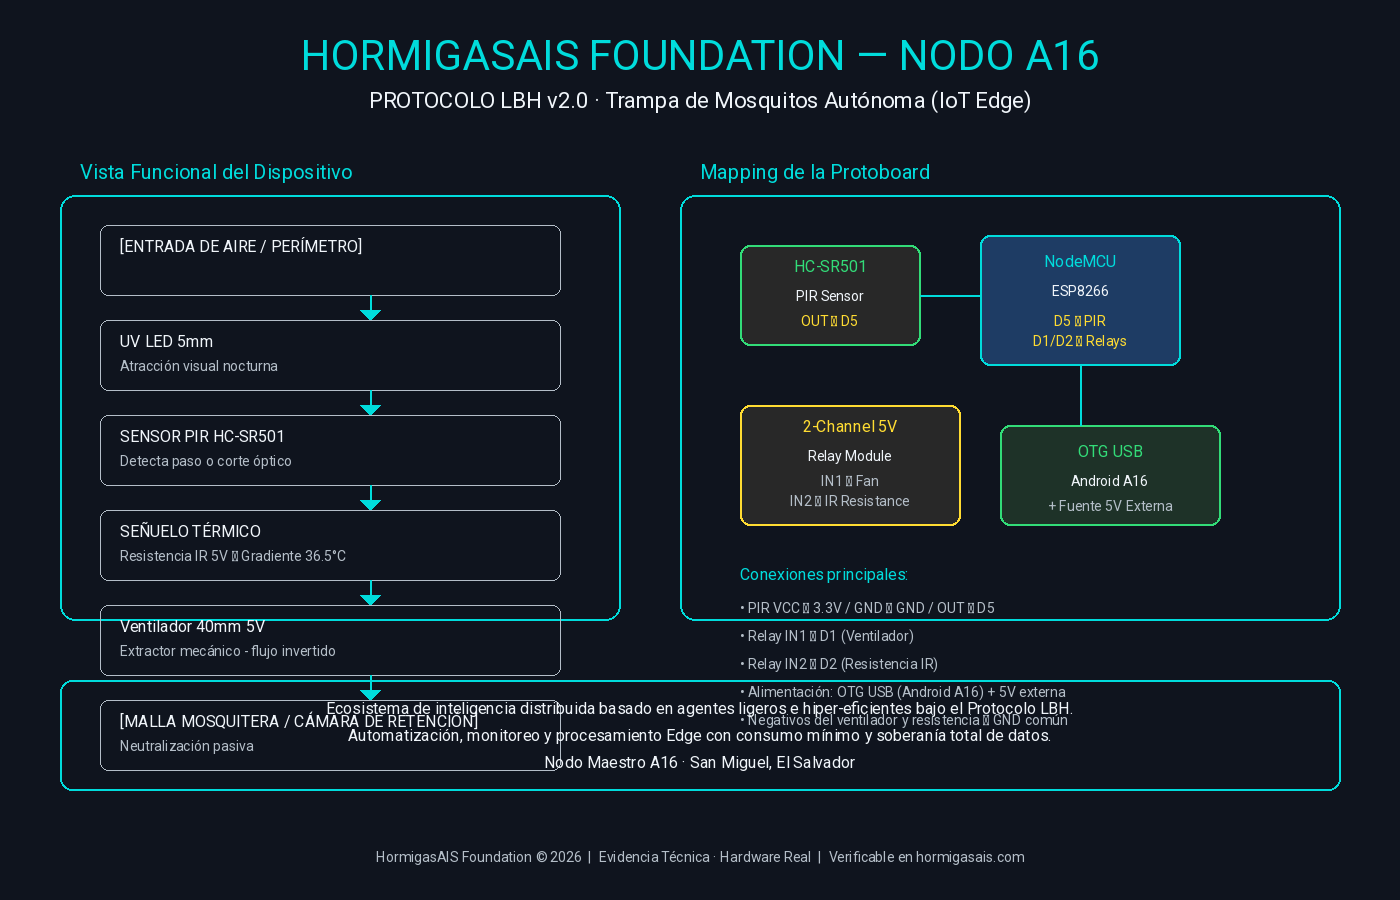
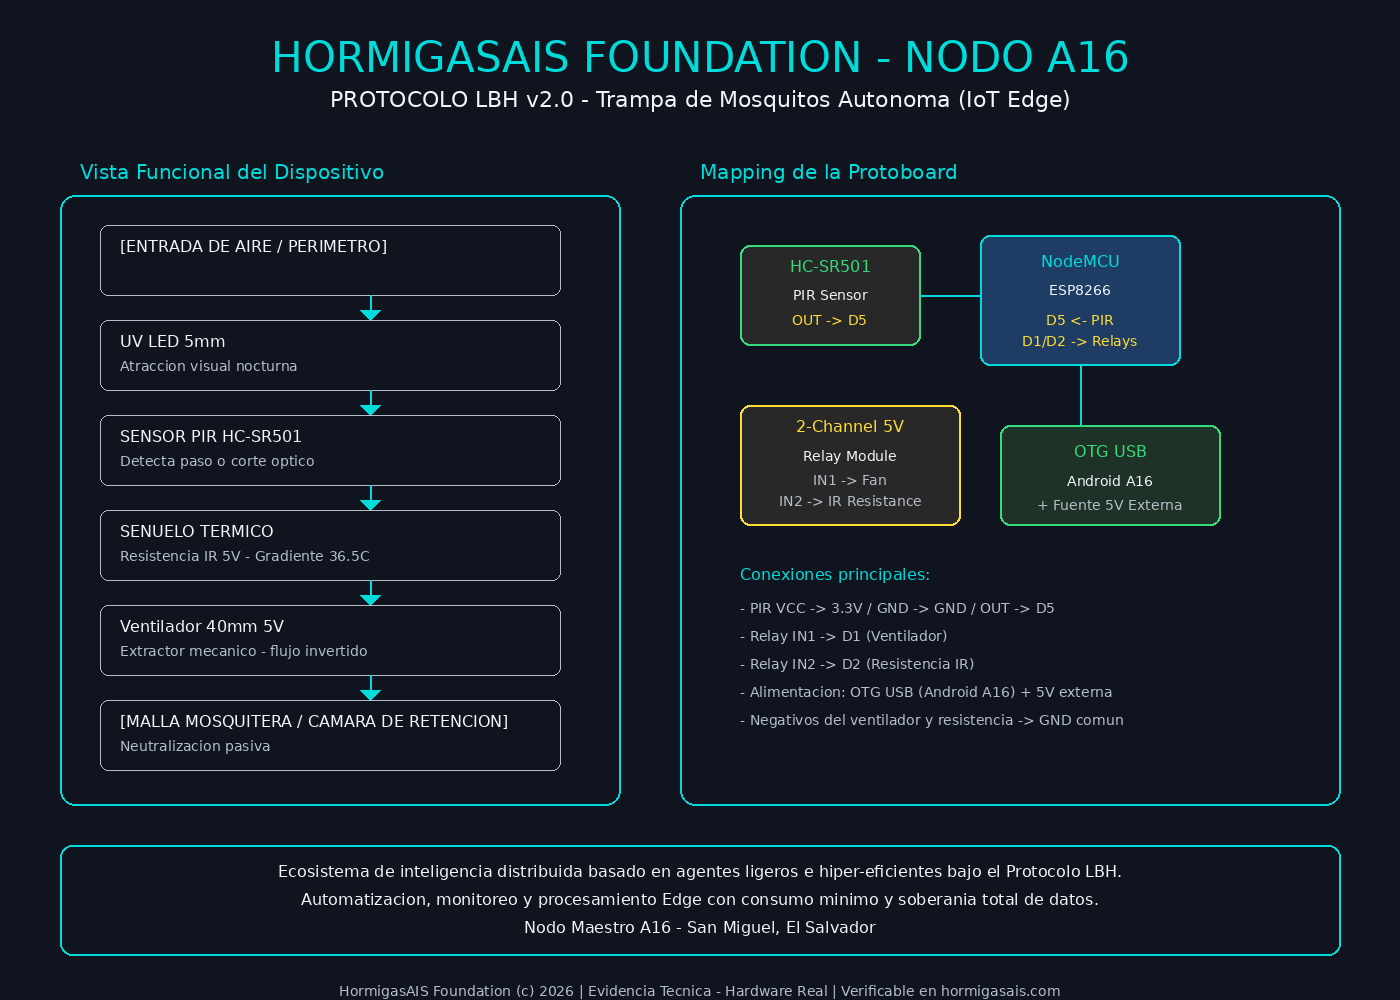
docs: fix hardware diagram overlap and broken arrow glyphs, add audit files

Changed region(s): [[0.0614, 0.1556, 0.9521, 1.0], [0.1843, 0.0311, 0.7986, 0.1244], [0.0307, 0.1556, 0.43, 0.3733]]

diff --git a/krea/annexes/generador_trampa_hardware.py b/krea/annexes/generador_trampa_hardware.py
@@ -1,0 +1,154 @@
+#!/usr/bin/env python3
+"""
+Generador de diagrama técnico - HormigasAIS Trampa de Mosquitos
+Nodo A16 · Protocolo LBH v2.0 - v2 corregida
+"""
+
+from PIL import Image, ImageDraw, ImageFont
+import os
+
+WIDTH, HEIGHT = 1400, 1000
+BG_COLOR = (15, 20, 30)
+CYAN = (0, 220, 220)
+WHITE = (240, 245, 250)
+LIGHT_GRAY = (180, 190, 200)
+YELLOW = (255, 220, 50)
+GREEN = (50, 220, 120)
+
+def get_font(size):
+    paths = [
+        "/data/data/com.termux/files/usr/share/fonts/TTF/DejaVuSans.ttf",
+        "/data/data/com.termux/files/usr/share/fonts/TTF/DejaVuSans-Bold.ttf",
+        "/system/fonts/Roboto-Regular.ttf",
+    ]
+    for p in paths:
+        if os.path.exists(p):
+            return ImageFont.truetype(p, size)
+    return ImageFont.load_default()
+
+def create_diagram():
+    img = Image.new("RGB", (WIDTH, HEIGHT), BG_COLOR)
+    draw = ImageDraw.Draw(img)
+
+    font_title = get_font(42)
+    font_subtitle = get_font(22)
+    font_section = get_font(20)
+    font_normal = get_font(16)
+    font_small = get_font(14)
+
+    draw.text((WIDTH//2, 40), "HORMIGASAIS FOUNDATION - NODO A16",
+              fill=CYAN, font=font_title, anchor="mt")
+    draw.text((WIDTH//2, 90), "PROTOCOLO LBH v2.0 - Trampa de Mosquitos Autonoma (IoT Edge)",
+              fill=WHITE, font=font_subtitle, anchor="mt")
+
+    left_x = 80
+    y = 160
+    draw.text((left_x, y), "Vista Funcional del Dispositivo", fill=CYAN, font=font_section)
+    y += 45
+
+    components_left = [
+        ("[ENTRADA DE AIRE / PERIMETRO]", None),
+        ("UV LED 5mm", "Atraccion visual nocturna"),
+        ("SENSOR PIR HC-SR501", "Detecta paso o corte optico"),
+        ("SENUELO TERMICO", "Resistencia IR 5V - Gradiente 36.5C"),
+        ("Ventilador 40mm 5V", "Extractor mecanico - flujo invertido"),
+        ("[MALLA MOSQUITERA / CAMARA DE RETENCION]", "Neutralizacion pasiva"),
+    ]
+
+    box_h = 70
+    gap = 25
+    total_boxes_height = len(components_left) * (box_h + gap)
+    contenedor_bottom = y + 20 + total_boxes_height + 10
+
+    draw.rounded_rectangle([left_x-20, y-10, 620, contenedor_bottom],
+                           radius=15, outline=CYAN, width=2)
+
+    box_y = y + 20
+    for i, (title, desc) in enumerate(components_left):
+        draw.rounded_rectangle([left_x+20, box_y, 560, box_y+box_h], radius=8,
+                               outline=LIGHT_GRAY, width=1)
+        draw.text((left_x+40, box_y+12), title, fill=WHITE, font=font_normal)
+        if desc:
+            draw.text((left_x+40, box_y+38), desc, fill=LIGHT_GRAY, font=font_small)
+
+        if i < len(components_left)-1:
+            draw.line([(left_x+290, box_y+box_h), (left_x+290, box_y+box_h+20)], fill=CYAN, width=2)
+            draw.polygon([(left_x+280, box_y+box_h+15), (left_x+300, box_y+box_h+15),
+                          (left_x+290, box_y+box_h+25)], fill=CYAN)
+        box_y += box_h + gap
+
+    right_x = 700
+    y = 160
+    draw.text((right_x, y), "Mapping de la Protoboard", fill=CYAN, font=font_section)
+    y += 45
+
+    draw.rounded_rectangle([right_x-20, y-10, 1340, contenedor_bottom],
+                           radius=15, outline=CYAN, width=2)
+
+    draw.rounded_rectangle([right_x+280, y+30, right_x+480, y+160], radius=10,
+                           fill=(30, 60, 100), outline=CYAN, width=2)
+    draw.text((right_x+380, y+50), "NodeMCU", fill=CYAN, font=font_normal, anchor="mt")
+    draw.text((right_x+380, y+80), "ESP8266", fill=WHITE, font=font_small, anchor="mt")
+    draw.text((right_x+380, y+110), "D5 <- PIR", fill=YELLOW, font=font_small, anchor="mt")
+    draw.text((right_x+380, y+130), "D1/D2 -> Relays", fill=YELLOW, font=font_small, anchor="mt")
+
+    draw.rounded_rectangle([right_x+40, y+40, right_x+220, y+140], radius=10,
+                           fill=(40, 40, 40), outline=GREEN, width=2)
+    draw.text((right_x+130, y+55), "HC-SR501", fill=GREEN, font=font_normal, anchor="mt")
+    draw.text((right_x+130, y+85), "PIR Sensor", fill=WHITE, font=font_small, anchor="mt")
+    draw.text((right_x+130, y+110), "OUT -> D5", fill=YELLOW, font=font_small, anchor="mt")
+
+    draw.rounded_rectangle([right_x+40, y+200, right_x+260, y+320], radius=10,
+                           fill=(40, 40, 40), outline=YELLOW, width=2)
+    draw.text((right_x+150, y+215), "2-Channel 5V", fill=YELLOW, font=font_normal, anchor="mt")
+    draw.text((right_x+150, y+245), "Relay Module", fill=WHITE, font=font_small, anchor="mt")
+    draw.text((right_x+150, y+270), "IN1 -> Fan", fill=LIGHT_GRAY, font=font_small, anchor="mt")
+    draw.text((right_x+150, y+290), "IN2 -> IR Resistance", fill=LIGHT_GRAY, font=font_small, anchor="mt")
+
+    draw.rounded_rectangle([right_x+300, y+220, right_x+520, y+320], radius=10,
+                           fill=(30, 50, 40), outline=GREEN, width=2)
+    draw.text((right_x+410, y+240), "OTG USB", fill=GREEN, font=font_normal, anchor="mt")
+    draw.text((right_x+410, y+270), "Android A16", fill=WHITE, font=font_small, anchor="mt")
+    draw.text((right_x+410, y+295), "+ Fuente 5V Externa", fill=LIGHT_GRAY, font=font_small, anchor="mt")
+
+    draw.line([(right_x+220, y+90), (right_x+280, y+90)], fill=CYAN, width=2)
+    draw.line([(right_x+380, y+160), (right_x+380, y+220)], fill=CYAN, width=2)
+
+    draw.text((right_x+40, y+360), "Conexiones principales:", fill=CYAN, font=font_normal)
+    pines = [
+        "- PIR VCC -> 3.3V / GND -> GND / OUT -> D5",
+        "- Relay IN1 -> D1 (Ventilador)",
+        "- Relay IN2 -> D2 (Resistencia IR)",
+        "- Alimentacion: OTG USB (Android A16) + 5V externa",
+        "- Negativos del ventilador y resistencia -> GND comun"
+    ]
+    py = y + 395
+    for p in pines:
+        draw.text((right_x+40, py), p, fill=LIGHT_GRAY, font=font_small)
+        py += 28
+
+    resumen_top = contenedor_bottom + 40
+    resumen_bottom = resumen_top + 110
+    draw.rounded_rectangle([60, resumen_top, 1340, resumen_bottom], radius=12, outline=CYAN, width=2)
+
+    pos_text = [
+        "Ecosistema de inteligencia distribuida basado en agentes ligeros e hiper-eficientes bajo el Protocolo LBH.",
+        "Automatizacion, monitoreo y procesamiento Edge con consumo minimo y soberania total de datos.",
+        "Nodo Maestro A16 - San Miguel, El Salvador"
+    ]
+    ty = resumen_top + 20
+    for line in pos_text:
+        draw.text((WIDTH//2, ty), line, fill=WHITE, font=font_normal, anchor="mt")
+        ty += 28
+
+    draw.text((WIDTH//2, resumen_bottom + 30),
+              "HormigasAIS Foundation (c) 2026 | Evidencia Tecnica - Hardware Real | Verificable en hormigasais.com",
+              fill=LIGHT_GRAY, font=font_small, anchor="mt")
+
+    output = "hormigasais_trampa_nodo_a16_lbh_v2.png"
+    img.save(output, "PNG")
+    print("Imagen generada:", os.path.abspath(output))
+    return output
+
+if __name__ == "__main__":
+    create_diagram()

diff --git a/evidence/README.md b/evidence/README.md
@@ -16,7 +16,7 @@ Este directorio reúne la evidencia pública utilizada para validar la arquitect
 
 ## Arquitectura General
 
-![Architecture Overview](./assets/architecture-overview-v0.2.0.png)
+![Hardware Real - Trampa de Mosquitos LBH Nodo A16](../krea/annexes/Foto_Hardware_Trampa_Mosquitos_LBH_NodoA16.png)
 
 
 ## Documento sellado — Términos de Ronda de Inversión
